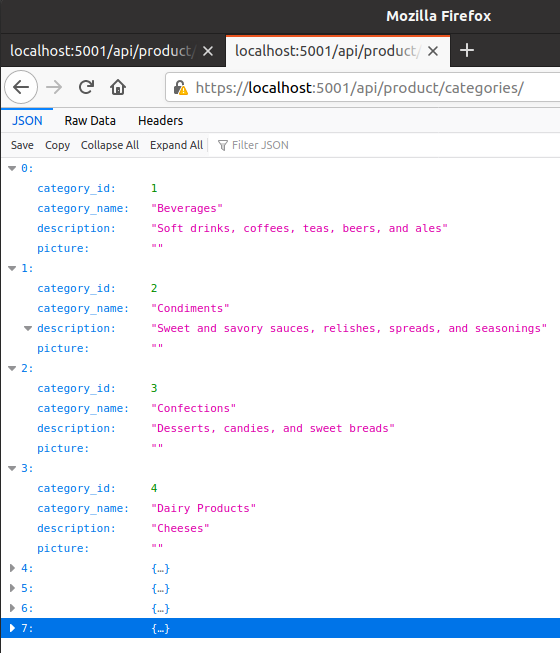
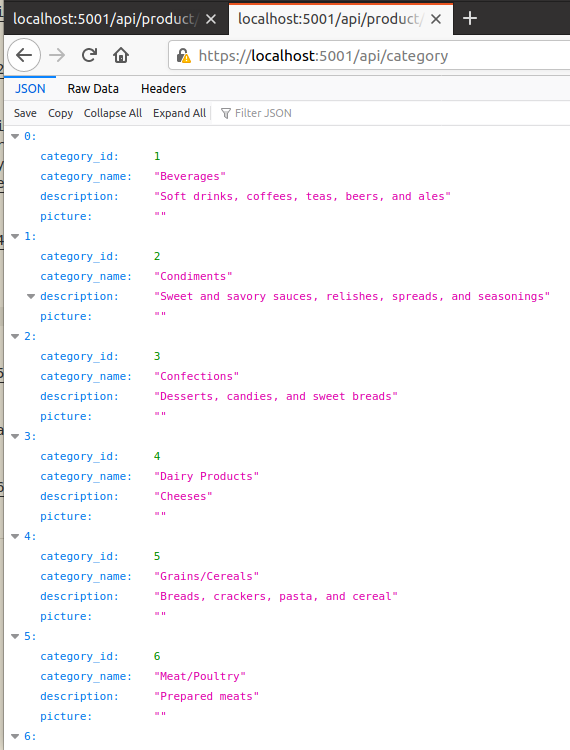
Konu anlatımı güncellendi

diff --git a/No 35 - Hiyaaa This is SqlKata/README.md b/No 35 - Hiyaaa This is SqlKata/README.md
@@ -65,7 +65,7 @@ https://localhost:5001/api/product/Beverages/3
 
 ```text
 En basit operasyonlardan birisi de elbette kategorilerin getirilmesi
-https://localhost:5001/api/product/categories/
+https://localhost:5001/api/category
 ```
 
 ![Screenshot_05.png](./assets/Screenshot_05.png)
@@ -75,6 +75,26 @@ Müşterilerin bulundukları şehre göre gruplanması.
 ```
 
 ![Screenshot_06.png](./assets/Screenshot_06.png)
+
+```text
+Insert işlemini Postman ile denemek için kullanılabilecek örnek HTTP Post paketi
+
+Adres: https://localhost:5001/api/category
+Metod: HTTP Post
+Body: json
+Örnek İçerik:
+{
+    "CategoryId":10,
+    "Name": "Kitap",
+    "Description": "Kitap konulu ürünler"
+}
+```
+
+![Screenshot_07.png](./assets/Screenshot_07.png)
+
+_Tabii aynı Id ile bir kategori eklemek istersek exception yönetimimize göre aşağıdaki gibi çıktılar alırız_
+
+![Screenshot_08.png](./assets/Screenshot_08.png)
 
 ## Bomba Sorular
 
